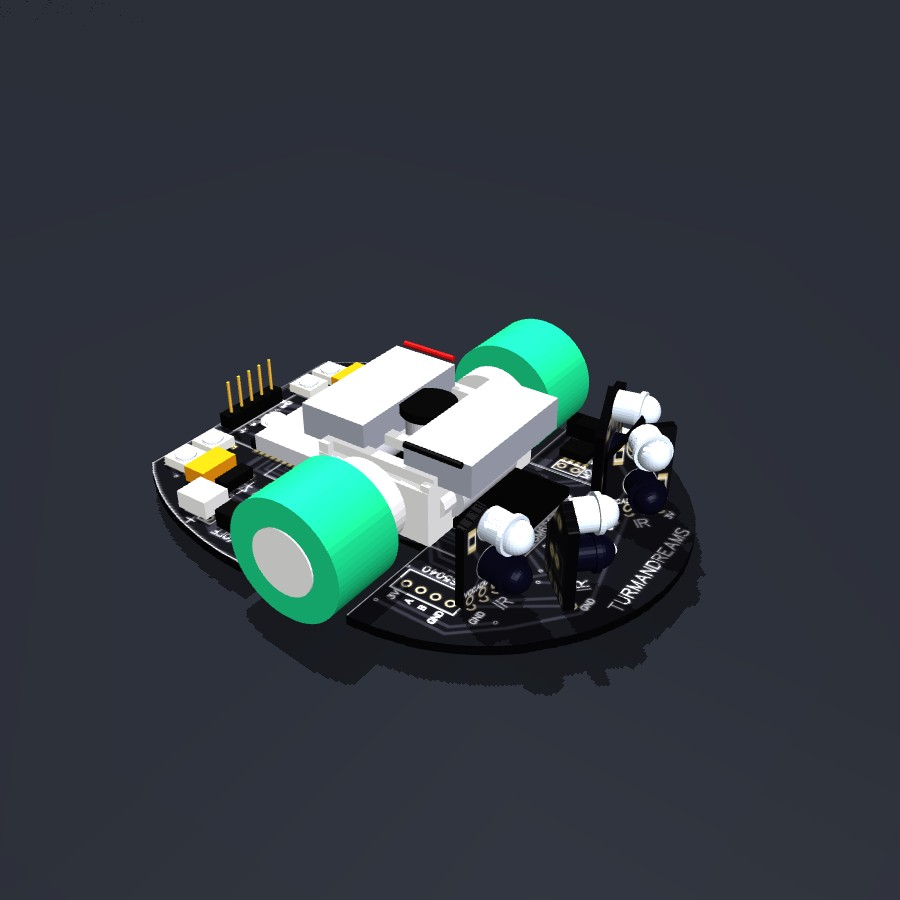
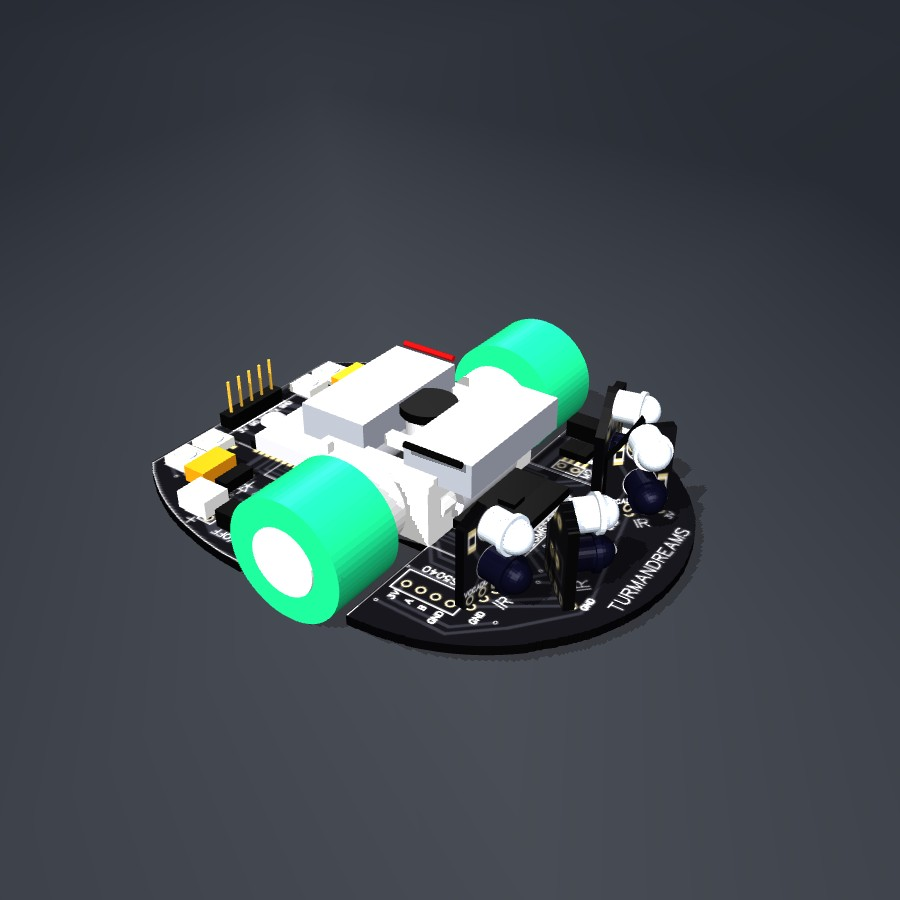
Portraits: the key light from the camera's side, not behind the robot (no more backlit robots shadowing themselves)

Changed region(s): [[0.1556, 0.3422, 0.7778, 0.84], [0.6533, 0.4356, 0.7467, 0.5911]]

diff --git a/ratasim/scenes/portraits.py b/ratasim/scenes/portraits.py
@@ -24,8 +24,11 @@ ROBOTS = {      # file: prefix, camera distance (m), azimuth, elevation
 }
 SKY = 'rgb1="0.17 0.18 0.21" rgb2="0.04 0.04 0.05"'          # a dark studio
 STUDIO = ('<geom name="floor" type="plane" size="4 4 0.1" rgba="0.10 0.11 0.13 1" condim="3" friction="0.05 0.001 0.0001"/>'
-          '<light directional="true" pos="0 -1 2" dir="0.3 0.5 -1" diffuse="0.85 0.85 0.85" castshadow="true"/>'
-          '<light directional="true" pos="0 1 2" dir="-0.2 -0.6 -0.6" diffuse="0.45 0.45 0.5" castshadow="false"/>')
+          # the camera looks from +x +y (azimuth 215): the key light from its upper left (the shadow falls behind the
+          # robot, to the right), a soft fill from its right, a faint rim from behind to lift the edges off the dark
+          '<light directional="true" pos="1 0 2" dir="-1 0.05 -1.3" diffuse="0.8 0.8 0.78" castshadow="true"/>'
+          '<light directional="true" pos="0 1 2" dir="-0.3 -0.95 -0.8" diffuse="0.3 0.3 0.33" castshadow="false"/>'
+          '<light directional="true" pos="-1 -1 2" dir="0.8 0.6 -0.6" diffuse="0.25 0.25 0.28" castshadow="false"/>')
 
 
 def maze_picture(out):
